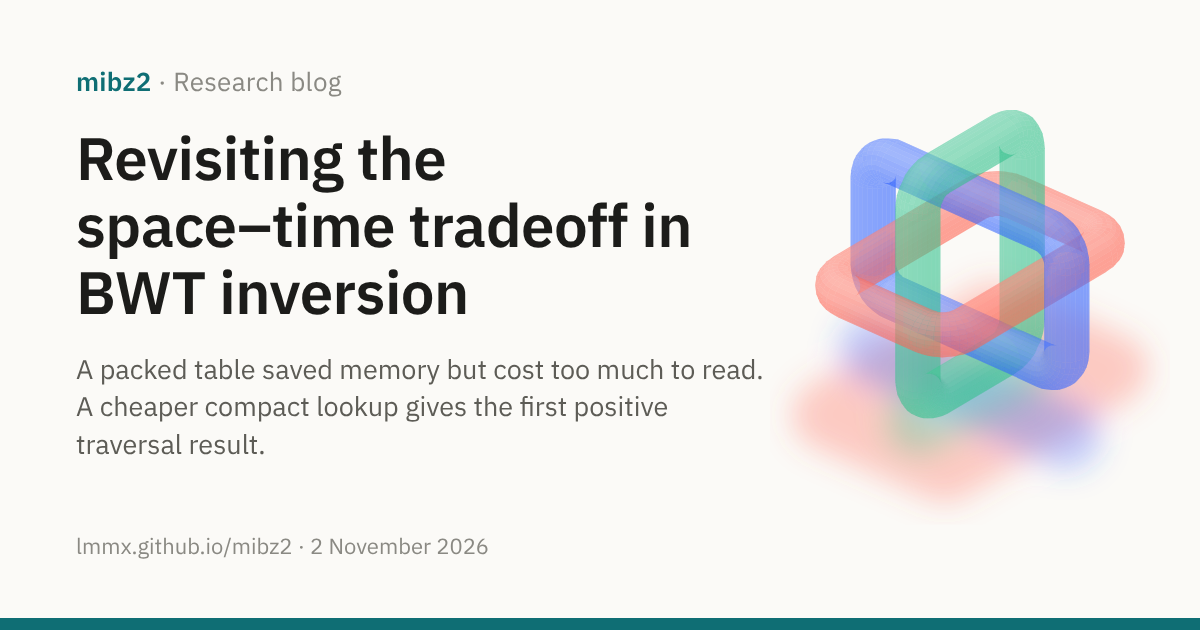
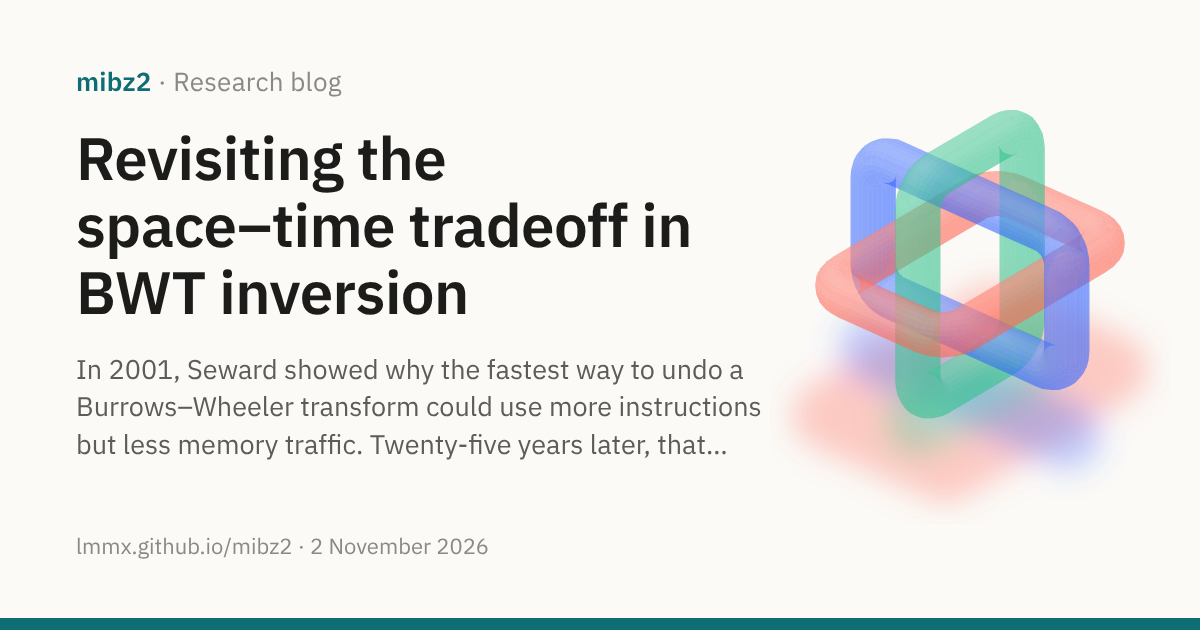
docs: check that each post's description, index card and social card match its text (#142)
Two posts' front-matter descriptions had drifted from their deks, so link previews and social cards showed old text. Both now match their deks and their cards are redrawn. check_site.py requires a post's description to equal its dek, its H1 to equal its title and its index card to repeat both, and fails when a social card was drawn from other text than its page has now, using the record social_cards.py writes to assets/social/cards.json.

Changed region(s): [[0.0617, 0.6333, 0.6475, 0.6635], [0.0617, 0.573, 0.6475, 0.6032], [0.0617, 0.6937, 0.5858, 0.7238]]

diff --git a/docs/scripts/check_site.py b/docs/scripts/check_site.py
@@ -11,6 +11,12 @@
 - Every nav page has a front-matter description, and is listed once in the llmstxt sections
   of zensical.toml with that same description; the built site has llms.txt, llms-full.txt
   and the page's Markdown copy, and no Markdown copy of any other page.
+- Blog posts: a post's front-matter description (the text of its link previews, llms.txt
+  and social card) is its dek, word for word; its H1 is its front-matter title; and its card
+  on the blog index repeats that title and dek.
+- Social cards: every card image exists and was drawn from the text its page has now, as
+  recorded in assets/social/cards.json by social_cards.py (rerun it after changing a
+  post's title, description or date).
 - API coverage: every public module of python/mibz2/ has a reference page with its `:::`
   directive, and every name in each public module's `__all__` (read statically with ast)
   is documented: the built reference has an anchor for it, under that module or, for a
@@ -21,6 +27,9 @@ Exits with 1 and lists every problem found.
 
 import argparse
 import ast
+import html
+import importlib.util
+import json
 import re
 import sys
 import tomllib
@@ -158,6 +167,76 @@ def check_llms(config, site, problems):
             problems.append(f"Markdown copy of a page not in the llmstxt sections: {page}")
 
 
+def plain(text):
+    """Text compared as read: entities decoded, word joiners dropped, whitespace collapsed."""
+    return " ".join(html.unescape(text).replace("\u2060", "").split())
+
+
+def social_cards():
+    """The card script, whose `cards()` says what each card should show."""
+    path = Path(__file__).resolve().parent / "social_cards.py"
+    spec = importlib.util.spec_from_file_location("social_cards", path)
+    module = importlib.util.module_from_spec(spec)
+    spec.loader.exec_module(module)
+    return module
+
+
+def check_posts(config, problems):
+    """Each post's description is its dek, and the blog index repeats its title and dek."""
+    blog = ROOT / config["project"]["docs_dir"] / "blog"
+    cards = {
+        href: (plain(title), plain(dek))
+        for href, title, dek in re.findall(
+            r'<a class="post-card" href="([^"]+)".*?post-card-title">(.*?)</span>'
+            r'.*?post-card-dek">(.*?)</span>',
+            (blog / "index.md").read_text(),
+            re.S,
+        )
+    }
+    front_matter = social_cards().front_matter
+    for post in sorted(blog.glob("*.md")):
+        if post.name == "index.md":
+            continue
+        meta, h1 = front_matter(post)
+        title = plain(meta.get("title", ""))
+        if h1 and plain(h1) != title:
+            problems.append(f"blog/{post.name}: the H1 differs from the front-matter title")
+        m = re.search(r"^# .+\n\n((?:.+\n)+?)\{: \.post-dek \}", post.read_text(), re.M)
+        if not m:
+            continue  # no dek, as on an appendix
+        dek = plain(m.group(1))
+        if plain(meta.get("description", "")) != dek:
+            problems.append(f"blog/{post.name}: the front-matter description differs from the dek")
+        if post.name not in cards:
+            problems.append(f"blog/index.md has no card for {post.name}")
+        else:
+            card_title, card_dek = cards[post.name]
+            if card_title != title:
+                problems.append(
+                    f"blog/index.md: the card title for {post.name} differs from its title"
+                )
+            if card_dek != dek:
+                problems.append(f"blog/index.md: the card dek for {post.name} differs from its dek")
+
+
+def check_cards(config, problems):
+    """Every card image exists and was drawn from the text its page has now."""
+    docs = ROOT / config["project"]["docs_dir"]
+    manifest_path = docs / "assets/social/cards.json"
+    drawn = json.loads(manifest_path.read_text()) if manifest_path.exists() else {}
+    expected = social_cards().cards(ROOT)
+    for image, fields in expected.items():
+        if not (docs / image).exists():
+            problems.append(f"no card image at {image}: run docs/scripts/social_cards.py")
+        elif drawn.get(image) != fields:
+            problems.append(
+                f"{image} was drawn from other text than its page has now: "
+                "run docs/scripts/social_cards.py"
+            )
+    for image in sorted(set(drawn) - set(expected)):
+        problems.append(f"assets/social/cards.json records {image}, which no page uses")
+
+
 def md_copy(site, page):
     """Where the llmstxt plugin writes the Markdown copy of a page."""
     if page == "index.md" or page.endswith("/index.md"):
@@ -232,6 +311,8 @@ def main():
     else:
         problems.append(f"no built site at {site} (zensical build)")
     check_llms(config, site, problems)
+    check_posts(config, problems)
+    check_cards(config, problems)
     if (site / "index.html").exists():
         check_api(config, site, problems)
     for problem in problems:

diff --git a/docs/scripts/social_cards.py b/docs/scripts/social_cards.py
@@ -6,7 +6,9 @@ if it has one, else the site's default card, docs/site/assets/social/default.png
 This script draws the default card (the site's description and how to install mibz2) and a card for each
 blog post whose front matter names an `image` under assets/social/ (the post's title, its
 description and its date), each beside the home page's illustration. Each card is an HTML
-page rendered to PNG by headless Chromium.
+page rendered to PNG by headless Chromium. It records the text each card was drawn from in
+assets/social/cards.json, which check_site.py compares with the pages, so a card left stale
+by a changed title, description or date fails the check.
 
 Run from the repository root, with a Chromium or Chrome binary:
 
@@ -20,6 +22,7 @@ than --window-size, cutting off the card's foot.
 
 import argparse
 import html
+import json
 import os
 import re
 import shutil
@@ -134,26 +137,23 @@ def render(chrome, out, **fields):
     print(f"wrote {out}")
 
 
-def main():
-    """Draw the default card and each blog post's card."""
-    parser = argparse.ArgumentParser(description=__doc__.split("\n\n")[0])
-    parser.add_argument("--chrome", help="the Chromium or Chrome binary")
-    chrome = find_chrome(parser.parse_args().chrome)
-    OUT.mkdir(parents=True, exist_ok=True)
+MANIFEST = OUT / "cards.json"
+DEFAULT_DESCRIPTION = (
+    "Block-parallel bzip2 decoding, byte for byte with libbzip2, from "
+    "Python and Rust: pip install mibz2, cargo add mibz2."
+)
 
-    config = tomllib.loads(Path("zensical.toml").read_text())["project"]
+
+def cards(root=Path(".")):
+    """Every card to draw: its PNG path (relative to the site) and the text it shows."""
+    config = tomllib.loads((root / "zensical.toml").read_text())["project"]
     host = re.sub(r"^https?://|/$", "", config["site_url"])
-    render(
-        chrome,
-        OUT / "default.png",
-        section="",
-        title=config["site_description"],
-        description="Block-parallel bzip2 decoding, byte for byte with libbzip2, from "
-        "Python and Rust: pip install mibz2, cargo add mibz2.",
-        foot=host,
-    )
-
-    for post in sorted((SITE / "blog").glob("*.md")):
+    out = {
+        "assets/social/default.png": dict(
+            section="", title=config["site_description"], description=DEFAULT_DESCRIPTION, foot=host
+        )
+    }
+    for post in sorted((root / SITE / "blog").glob("*.md")):
         meta, title = front_matter(post)
         image = meta.get("image")
         if not image:
@@ -161,14 +161,26 @@ def main():
         if not image.startswith("assets/social/"):
             sys.exit(f"{post}: the card must be under assets/social/, not {image}")
         day = date.fromisoformat(post.name[:10])
-        render(
-            chrome,
-            SITE / image,
+        out[image] = dict(
             section=" · Research blog",
             title=title,
             description=meta["description"],
             foot=f"{host} · {day.day} {day:%B %Y}",
         )
+    return out
+
+
+def main():
+    """Draw the default card and each blog post's card, and record what each shows."""
+    parser = argparse.ArgumentParser(description=__doc__.split("\n\n")[0])
+    parser.add_argument("--chrome", help="the Chromium or Chrome binary")
+    chrome = find_chrome(parser.parse_args().chrome)
+    OUT.mkdir(parents=True, exist_ok=True)
+    drawn = cards()
+    for image, fields in drawn.items():
+        render(chrome, SITE / image, **fields)
+    MANIFEST.write_text(json.dumps(drawn, indent=2, ensure_ascii=False, sort_keys=True) + "\n")
+    print(f"wrote {MANIFEST}")
 
 
 if __name__ == "__main__":

diff --git a/docs/site/blog/2026-11-02-revisiting-space-time-tradeoff-bwt-inversion.md b/docs/site/blog/2026-11-02-revisiting-space-time-tradeoff-bwt-inversion.md
@@ -1,7 +1,7 @@
 ---
 title: "Revisiting the space–time tradeoff in BWT inversion"
 image: assets/social/blog-2026-11-02-revisiting-space-time-tradeoff-bwt-inversion.png
-description: "A packed table saved memory but cost too much to read. A cheaper compact lookup gives the first positive traversal result."
+description: "In 2001, Seward showed why the fastest way to undo a Burrows–Wheeler transform could use more instructions but less memory traffic. Twenty-five years later, that observation led us to ask whether a smaller navigation table could do more work per step and still come out ahead under contention. A first measurement of ours shows it doing so."
 ---
 
 <div class="post-hero" markdown>

diff --git a/docs/site/blog/2026-11-02-memory-level-parallelism.md b/docs/site/blog/2026-11-02-memory-level-parallelism.md
@@ -1,7 +1,7 @@
 ---
 title: "Memory-level parallelism in mibz2: instructions, overlap and evidence"
 image: assets/social/blog-2026-11-02-memory-level-parallelism.png
-description: "Interleaved pointer chases overlap their memory waits. The speedup shows that this pays, but not what limits it, and so not what to make faster next."
+description: "Interleaving pointer chases lets memory waits overlap. The speedup shows that this pays, but not what limits it: a 2022 exchange about Daniel Lemire's benchmark, read against mibz2's inverse-BWT walk."
 ---
 
 <div class="post-hero" markdown>
